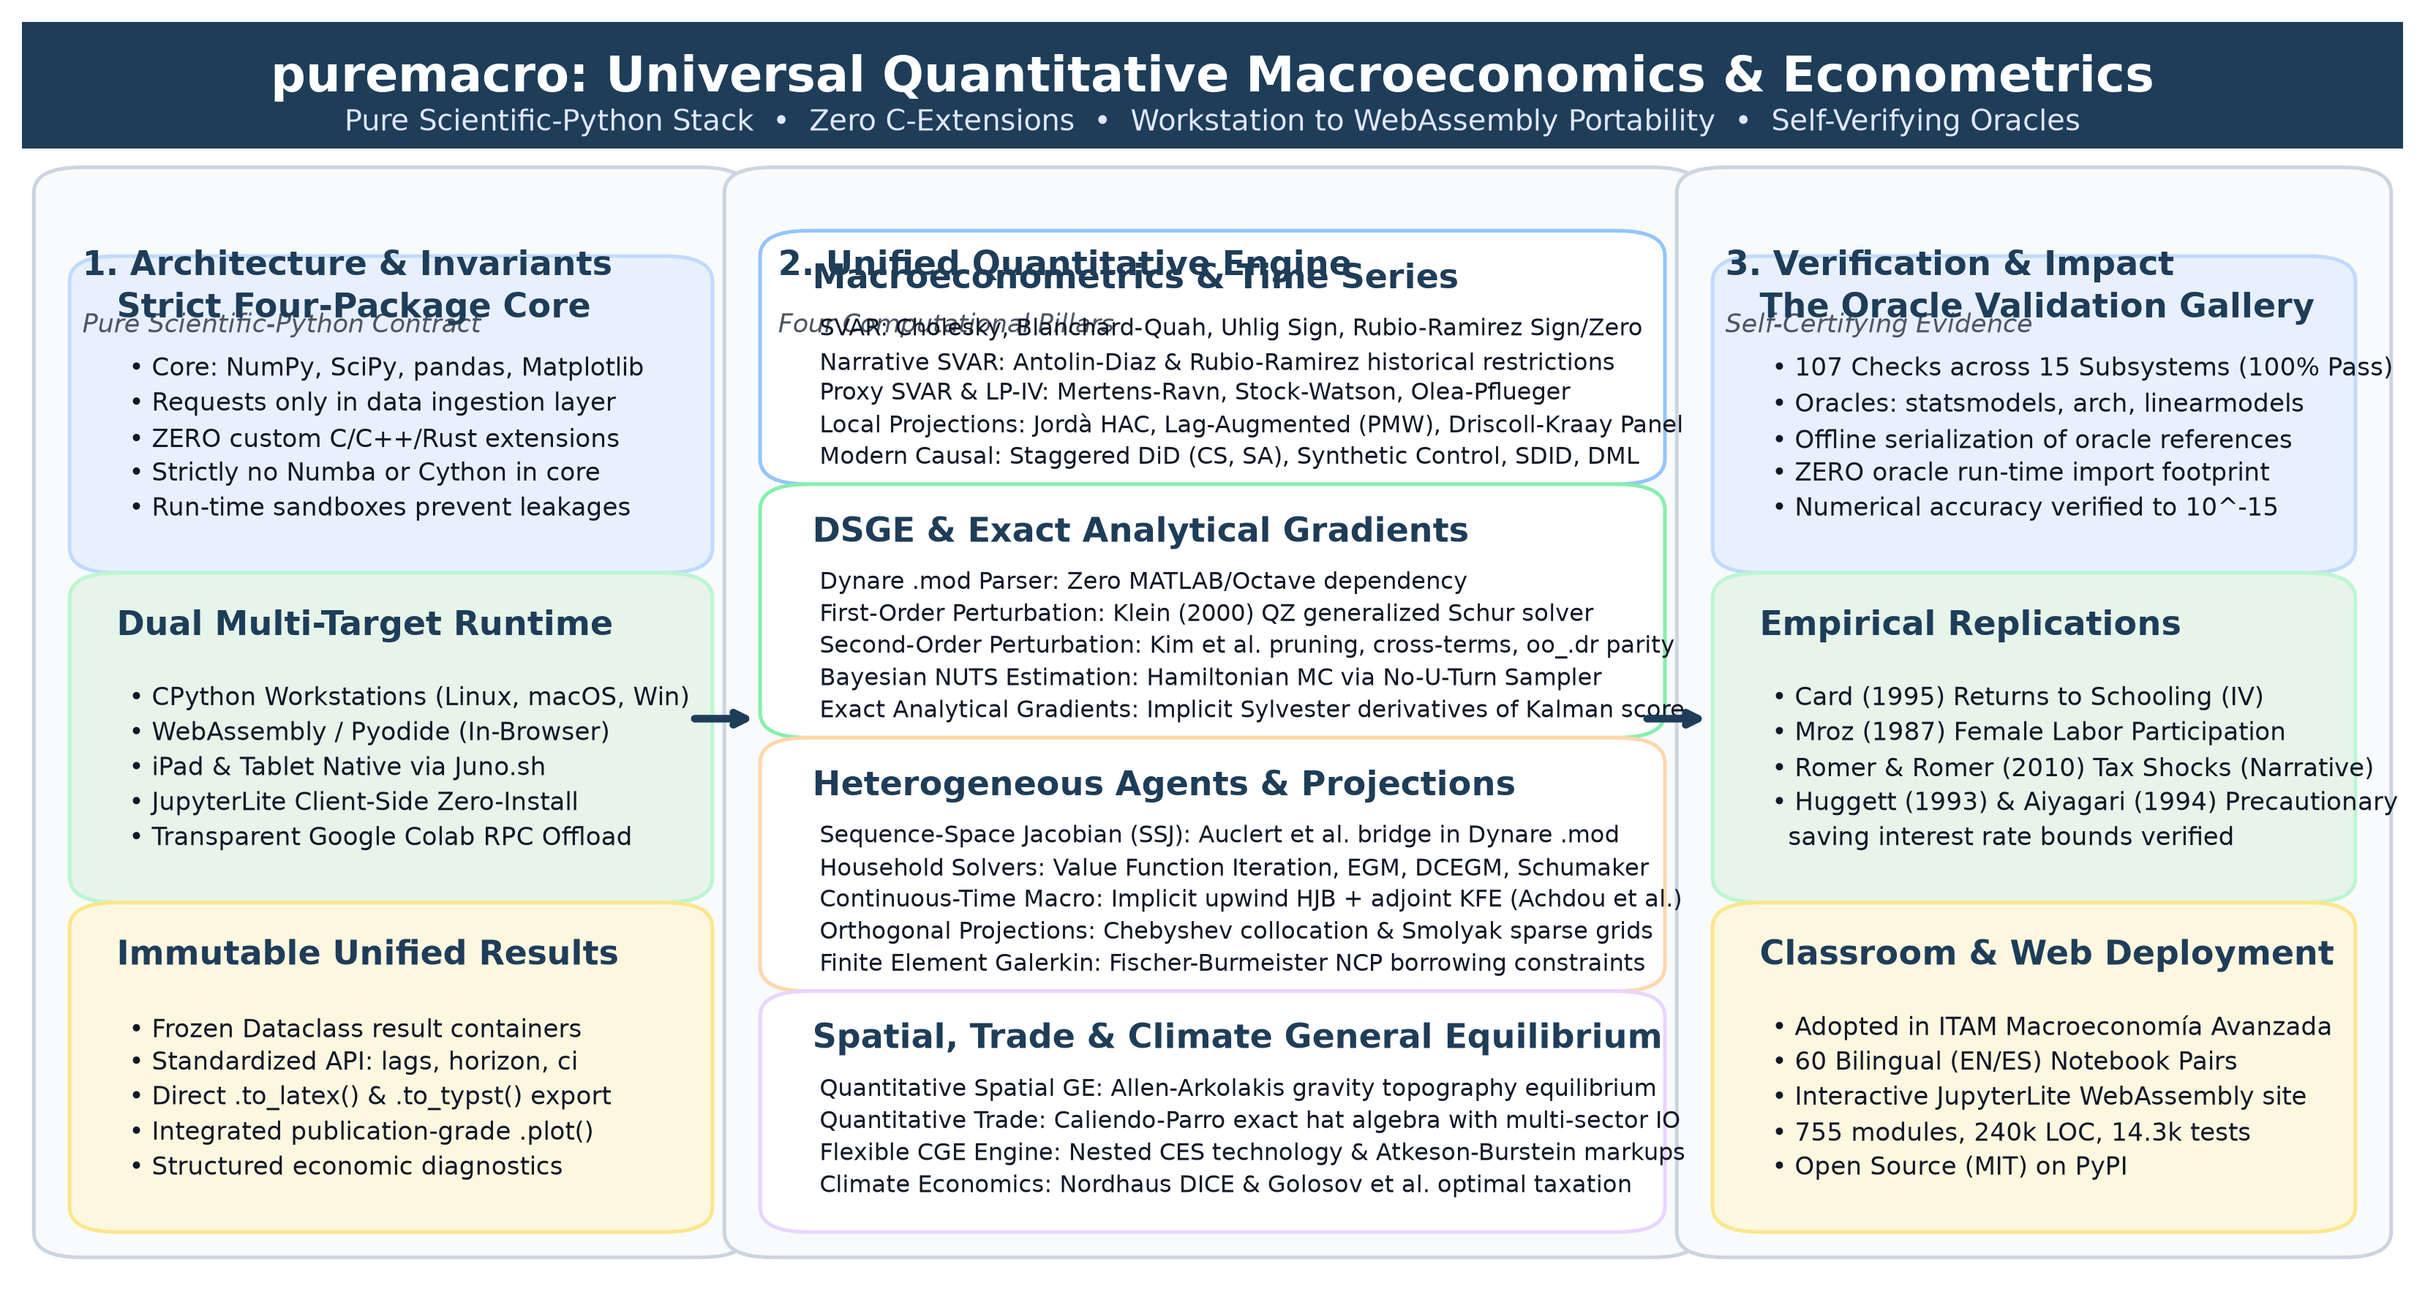
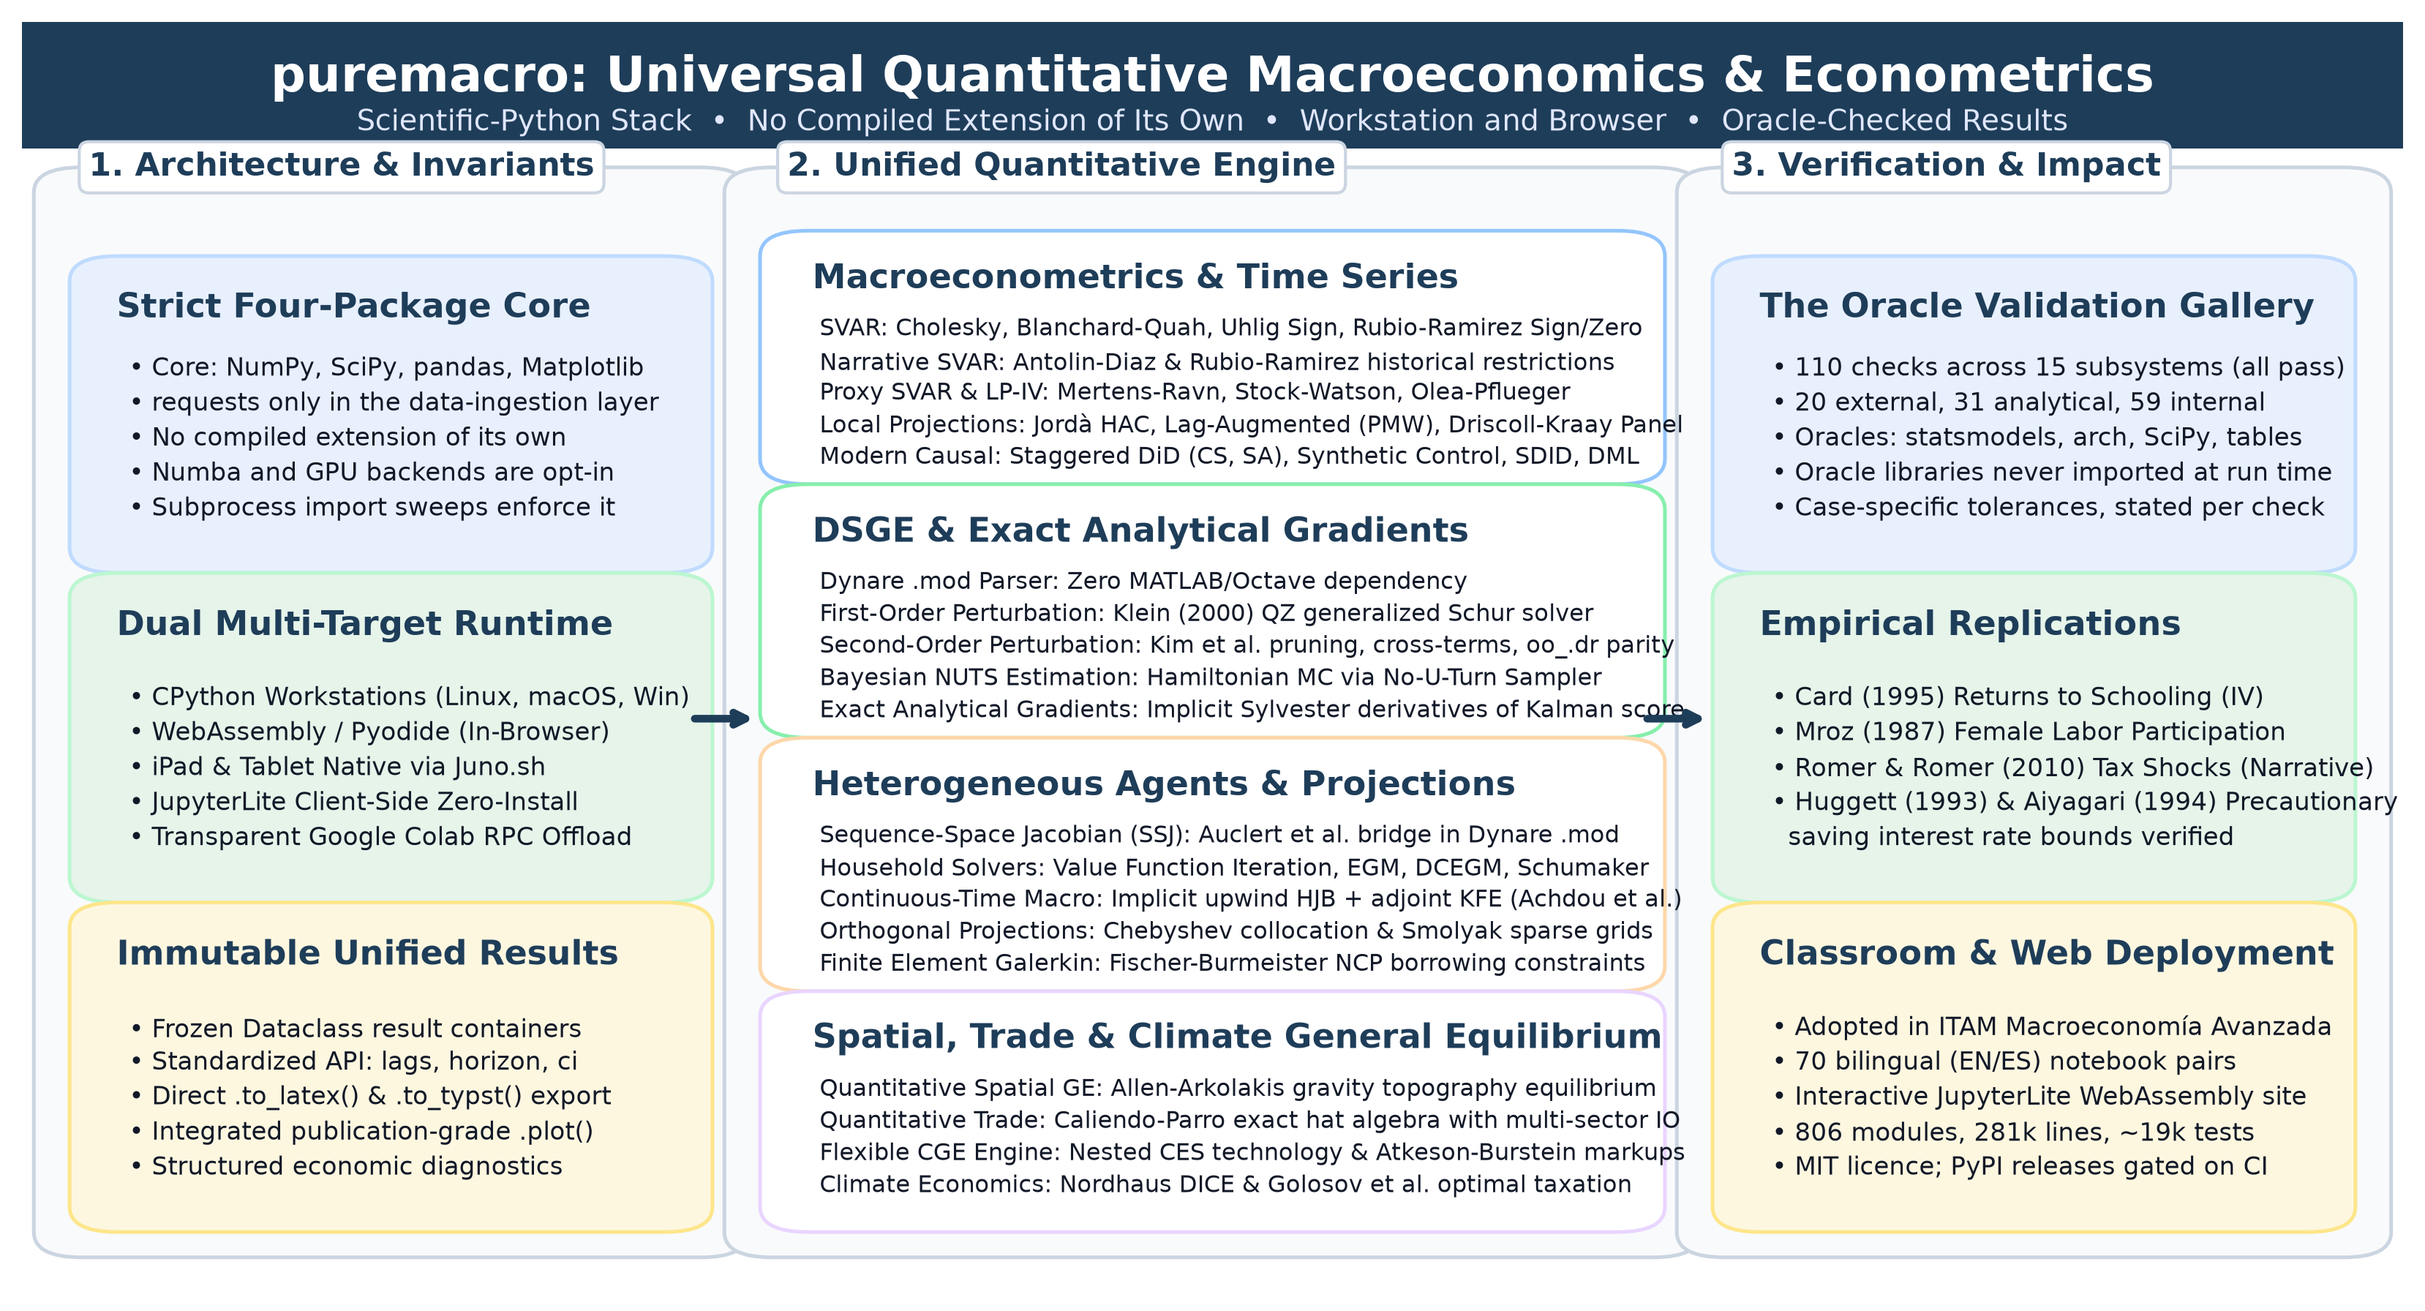
techreport: regenerate figures for 4.5.0
Graphical abstract and architecture figure carry 4.5.0 counts and drop
their overclaims (10^-15, '< 45 s in browser', 'no Numba', 'self-
certifying'); column titles no longer overlap the inner cards. The
scorecard figure is the current 110-check gallery. Captions updated.

diff --git a/techreport/generate_report_figures.py b/techreport/generate_report_figures.py
@@ -38,6 +38,13 @@ def draw_card(ax, x, y, w, h, title, subtitle="", bg_color=C_BG_CARD, border_col
         zorder=2
     )
     ax.add_patch(rect)
+    if title and h > 0.5:
+        # Column containers: the title as a label on the top border, so it never
+        # collides with the first inner card (the subtitle is omitted).
+        ax.text(x + 0.03 * w, y + h + 0.015, title,
+                fontsize=10.5, fontweight="bold", color=title_color, zorder=4, va="center",
+                bbox=dict(boxstyle="round,pad=0.3", facecolor="#ffffff", edgecolor=border_color, linewidth=1.0))
+        return
     if title:
         ax.text(x + 0.02 * w, y + h - 0.06 * h, title,
                 fontsize=11, fontweight="bold", color=title_color, zorder=3, va="top")
@@ -59,7 +66,7 @@ def generate_graphical_abstract():
     ax.add_patch(banner)
     ax.text(0.5, 0.955, "puremacro: Universal Quantitative Macroeconomics & Econometrics",
             ha="center", va="center", color="#ffffff", fontsize=16, fontweight="bold")
-    ax.text(0.5, 0.92, "Pure Scientific-Python Stack  •  Zero C-Extensions  •  Workstation to WebAssembly Portability  •  Self-Verifying Oracles",
+    ax.text(0.5, 0.92, "Scientific-Python Stack  •  No Compiled Extension of Its Own  •  Workstation and Browser  •  Oracle-Checked Results",
             ha="center", va="center", color="#e0e7ff", fontsize=9.5)
 
     # Three Main Architectural Columns:
@@ -74,7 +81,7 @@ def generate_graphical_abstract():
     # Subcards in Col 1
     # 1.1 Strict Dependency Invariant
     draw_card(ax, 0.035, 0.58, 0.24, 0.22, "Strict Four-Package Core", "", bg_color=C_BLUE_LIGHT, border_color="#bfdbfe")
-    ax.text(0.045, 0.74, "• Core: NumPy, SciPy, pandas, Matplotlib\n• Requests only in data ingestion layer\n• ZERO custom C/C++/Rust extensions\n• Strictly no Numba or Cython in core\n• Run-time sandboxes prevent leakages",
+    ax.text(0.045, 0.74, "• Core: NumPy, SciPy, pandas, Matplotlib\n• requests only in the data-ingestion layer\n• No compiled extension of its own\n• Numba and GPU backends are opt-in\n• Subprocess import sweeps enforce it",
             fontsize=8.2, color=C_TEXT_DARK, va="top", linespacing=1.4)
 
     # 1.2 Dual Execution Runtime
@@ -112,12 +119,12 @@ def generate_graphical_abstract():
             fontsize=7.8, color=C_TEXT_DARK, va="top", linespacing=1.35)
 
     # --- COLUMN 3: VERIFICATION & ADOPTION ---
-    draw_card(ax, 0.71, 0.04, 0.27, 0.83, "3. Verification & Impact", "Self-Certifying Evidence",
+    draw_card(ax, 0.71, 0.04, 0.27, 0.83, "3. Verification & Impact", "Oracle-Checked Evidence",
               bg_color="#f9fafb", border_color="#cbd5e1", title_color=C_PRIMARY)
 
     # 3.1 Oracle Hardening
     draw_card(ax, 0.725, 0.58, 0.24, 0.22, "The Oracle Validation Gallery", "", bg_color=C_BLUE_LIGHT, border_color="#bfdbfe")
-    ax.text(0.735, 0.74, "• 107 Checks across 15 Subsystems (100% Pass)\n• Oracles: statsmodels, arch, linearmodels\n• Offline serialization of oracle references\n• ZERO oracle run-time import footprint\n• Numerical accuracy verified to 10^-15",
+    ax.text(0.735, 0.74, "• 110 checks across 15 subsystems (all pass)\n• 20 external, 31 analytical, 59 internal\n• Oracles: statsmodels, arch, SciPy, tables\n• Oracle libraries never imported at run time\n• Case-specific tolerances, stated per check",
             fontsize=8.2, color=C_TEXT_DARK, va="top", linespacing=1.4)
 
     # 3.2 Empirical Landmark Replications
@@ -127,7 +134,7 @@ def generate_graphical_abstract():
 
     # 3.3 Classroom & Open Science
     draw_card(ax, 0.725, 0.06, 0.24, 0.23, "Classroom & Web Deployment", "", bg_color=C_AMBER_LIGHT, border_color="#fde68a")
-    ax.text(0.735, 0.22, "• Adopted in ITAM Macroeconomía Avanzada\n• 60 Bilingual (EN/ES) Notebook Pairs\n• Interactive JupyterLite WebAssembly site\n• 755 modules, 240k LOC, 14.3k tests\n• Open Source (MIT) on PyPI",
+    ax.text(0.735, 0.22, "• Adopted in ITAM Macroeconomía Avanzada\n• 70 bilingual (EN/ES) notebook pairs\n• Interactive JupyterLite WebAssembly site\n• 806 modules, 281k lines, ~19k tests\n• MIT licence; PyPI releases gated on CI",
             fontsize=8.2, color=C_TEXT_DARK, va="top", linespacing=1.4)
 
     # Arrows between columns
@@ -169,7 +176,7 @@ def generate_architecture_oracle_figure():
             fontsize=8.5, color=C_TEXT_DARK, va="top", linespacing=1.35)
 
     draw_card(ax, 0.05, 0.10, 0.38, 0.20, "Frozen Oracle Test Fixtures", "", bg_color="#e0e7ff", border_color="#a5b4fc")
-    ax.text(0.065, 0.24, "• High-precision JSON & NumPy binary fixtures (.npz)\n• Stored in puremacro/validation/fixtures/\n• Shipped directly inside the pure-Python wheel (< 2 MB total)\n• Zero external dependency overhead for downstream users",
+    ax.text(0.065, 0.24, "• High-precision JSON & NumPy binary fixtures (.npz)\n• Stored in puremacro/validation/goldens/\n• Shipped inside the pure-Python wheel (about 160 kB)\n• Zero external dependency overhead for downstream users",
             fontsize=8.5, color=C_TEXT_DARK, va="top", linespacing=1.35)
 
     # Connecting Flow Arrow
@@ -190,14 +197,14 @@ def generate_architecture_oracle_figure():
               bg_color="#f0fdf4", border_color="#86efac", title_color=C_HIGHLIGHT)
 
     draw_card(ax, 0.54, 0.64, 0.41, 0.16, "Strict Import Invariant Boundary", "", bg_color="#ffffff", border_color="#cbd5e1")
-    ax.text(0.555, 0.75, "Enforced by automated CI subprocess sweeps:\n• statsmodels, arch, linearmodels, numba FORBIDDEN in sys.modules\n• Pure NumPy, SciPy, pandas, Matplotlib ONLY\n• Sandboxed execution guarantees pure Python execution",
+    ax.text(0.555, 0.75, "Enforced by automated CI subprocess sweeps:\n• statsmodels, arch, linearmodels never imported by the core\n• NumPy, SciPy, pandas, Matplotlib (+ requests for data)\n• Numba-backed kernels are opt-in and excluded from the sweep",
             fontsize=8.5, color=C_TEXT_DARK, va="top", linespacing=1.35)
 
     draw_card(ax, 0.54, 0.37, 0.41, 0.21, "puremacro.validation.scorecard()", "", bg_color=C_BLUE_LIGHT, border_color="#93c5fd")
-    ax.text(0.555, 0.52, "• 107 Validation checks across 15 economic subsystems\n• 19 External reference checks (vs stored fixtures, diff < 10^-14)\n• 29 Analytical checks (closed-form identities, Euler residuals)\n• 59 Internal consistency checks (cross-algorithm & simulated recovery)\n• Executes in < 45 seconds on standard laptop or browser",
+    ax.text(0.555, 0.52, "• 110 validation checks across 15 economic subsystems\n• 20 external reference checks (stored fixtures, stated tolerances)\n• 31 analytical checks (closed-form identities, Euler residuals)\n• 59 internal consistency checks (cross-algorithm & simulated recovery)\n• Runs in about 12 seconds on a laptop",
             fontsize=8.5, color=C_TEXT_DARK, va="top", linespacing=1.35)
 
-    draw_card(ax, 0.54, 0.10, 0.41, 0.21, "Deployment Targets (Zero Installation Friction)", "", bg_color="#ffffff", border_color="#bbf7d0")
+    draw_card(ax, 0.54, 0.10, 0.41, 0.21, "Deployment Targets", "", bg_color="#ffffff", border_color="#bbf7d0")
     ax.text(0.555, 0.25, "• Local Workstations: pip install puremacro (Linux, macOS, Win)\n• Web Browsers: JupyterLite & Pyodide (Wasm) zero-install\n• Mobile / Tablets: Full offline capability on Juno.sh for iPad\n• Compute Offload: One-click export to Google Colab for large MCMC",
             fontsize=8.5, color=C_TEXT_DARK, va="top", linespacing=1.35)
 

diff --git a/techreport/puremacro_technical_report.md b/techreport/puremacro_technical_report.md
@@ -28,7 +28,7 @@ Puremacro is an open-source Python library for empirical macroeconometrics and q
 
 ![Comprehensive Graphical Abstract of the puremacro Computational Ecosystem](figures/graphical_abstract.png)
 
-*Figure 1: Comprehensive Graphical Abstract of the `puremacro` Computational Ecosystem. The diagram summarizes the architectural foundations, methodological engines, validation mechanisms, and deployment workflows. The left column outlines the strict four-package foundation (NumPy, SciPy, pandas, Matplotlib) and dual execution runtime (CPython and Pyodide WebAssembly). The center column displays the four primary computational pillars: structural macroeconometrics and causal inference, dynamic general equilibrium with exact analytical gradients, heterogeneous agents and continuous projections, and quantitative spatial and trade general equilibrium. The right column illustrates the oracle-based validation gallery, empirical replications, and interactive web and classroom deployment. The figure was drawn for release 4.2 and has not been regenerated: its counts (107 checks, 755 modules, 240k lines, 14.3k tests, 60 notebook pairs), the "10^-15" accuracy line, the "self-certifying" label and the "no Numba in core" line are superseded by Sections 2 and 9 (110 cases, 806 modules, 281,431 lines, 19,090 collected tests, 70 notebook pairs; tolerances are case-specific; an optional Numba backend exists outside the import contract).*
+*Figure 1: Comprehensive Graphical Abstract of the `puremacro` Computational Ecosystem. The diagram summarizes the architectural foundations, methodological engines, validation mechanisms, and deployment workflows. The left column outlines the strict four-package foundation (NumPy, SciPy, pandas, Matplotlib) and dual execution runtime (CPython and Pyodide WebAssembly). The center column displays the four primary computational pillars: structural macroeconometrics and causal inference, dynamic general equilibrium with exact analytical gradients, heterogeneous agents and continuous projections, and quantitative spatial and trade general equilibrium. The right column illustrates the oracle-based validation gallery, empirical replications, and interactive web and classroom deployment. Counts are those of release 4.5.0 (110 checks, 806 modules, about 281,000 lines, about 19,000 tests, 70 notebook pairs); tolerances are case-specific, and Numba and GPU backends are opt-in, outside the import contract.*
 
 ---
 
@@ -56,7 +56,7 @@ The architectural philosophy of `puremacro` is governed by the principle that co
 
 ![Software Architecture and the Oracle Hardening Loop in puremacro](figures/fig_architecture_oracle.png)
 
-*Figure 2: Software Architecture and the Oracle Hardening Loop in `puremacro`. The schematic illustrates the decoupling between the offline verification environment and the client runtime. In the offline factory (left), established external packages (`statsmodels`, `arch`, `linearmodels`, and `esda`) compute oracle estimates on standardized macroeconomic datasets, serializing reference fixtures into compact package files. In the client environment (right), a strict import boundary forbids oracle libraries from entering the runtime. The self-contained gallery `puremacro.validation.scorecard()` illustrates the validation workflow; it does not certify all deployment targets. The counts and claims printed inside the figure (107 checks, "diff < 10^-14", "< 45 seconds on standard laptop or browser") date from release 4.2 and are superseded by Section 9: the gallery now has 110 cases with case-specific tolerances, and its browser run time has not been measured.*
+*Figure 2: Software Architecture and the Oracle Hardening Loop in `puremacro`. The schematic illustrates the decoupling between the offline verification environment and the client runtime. In the offline factory (left), established external packages (`statsmodels`, `arch`, `linearmodels`, and `esda`) compute oracle estimates on standardized macroeconomic datasets, serializing reference fixtures into compact package files. In the client environment (right), a strict import boundary forbids oracle libraries from entering the runtime. The self-contained gallery `puremacro.validation.scorecard()` illustrates the validation workflow; it does not certify all deployment targets. Counts are those of release 4.5.0; tolerances are case-specific, and the gallery's browser run time has not been measured.*
 
 ### 2.1 The Strict Four-Package Import Invariant
 The import contract of `puremacro` states that shippable library modules may import only NumPy, SciPy, pandas, and Matplotlib at module scope. The install contract is one package wider: `requests` is a mandatory dependency used by the data layer. File-format engines (`pyarrow` for Parquet, `openpyxl` for Excel) are optional extras behind lazy imports. A small, documented set of modules lies outside the contract: the optional Numba kernels of the VFI and nested-DMP backends (the NumPy kernels are the Pyodide path), the MATLAB-parity teaching prototypes, the web-scraping and LLM side-channels of the narrative package, and the example scripts.
@@ -402,9 +402,9 @@ Version 4.4.0 ported seven engines from the author's input-output research works
 
 Numerical methods are only as useful as the evidence that they compute what they claim. `puremacro` organizes that evidence in four layers of different strength: a validation gallery of selected calculations (Section 9.1), a replication gallery (Section 9.2), a research benchmark suite with independent, real-data and published references (Section 9.3), and the test suite, continuous integration and public correctness advisories (Section 9.4). None of them certifies the complete feature inventory.
 
-![The Validation Scorecard of puremacro 4.2](figures/fig_scorecard.png)
+![The Validation Scorecard of puremacro 4.5](figures/fig_scorecard.png)
 
-*Figure 7: The Validation Scorecard of `puremacro` 4.2. Distribution of the 107 validation checks of releases 4.2 and 4.3 across 15 subsystems by reference type (External Reference 19, Analytical Result 29, Internal Consistency 59). The figure has not been regenerated for 4.5.0; the current 110-case gallery is given in Table 1, and its subsystem counts differ from the figure in several rows. The gallery has case-specific tolerances; it has not been executed in a browser for this report.*
+*Figure 7: The Validation Scorecard of `puremacro` 4.5. The 110 validation checks across 15 subsystems by reference type (External Reference 20: 13 package, 5 SciPy and 2 published; Analytical Result 31; Internal Consistency 59), all passing; regenerated from `puremacro.validation.scorecard()` (Table 1 lists the subsystem counts). The gallery has case-specific tolerances; it has not been executed in a browser for this report.*
 
 ### 9.1 The 110-Case Validation Gallery
 The validation gallery is executed via `puremacro.validation.scorecard()`. In release 4.5.0 it contains 110 cases across 15 subsystems, all passing on the reference environment, without importing any external oracle library at runtime (Table 1, recomputed with `scorecard()` for this report).
